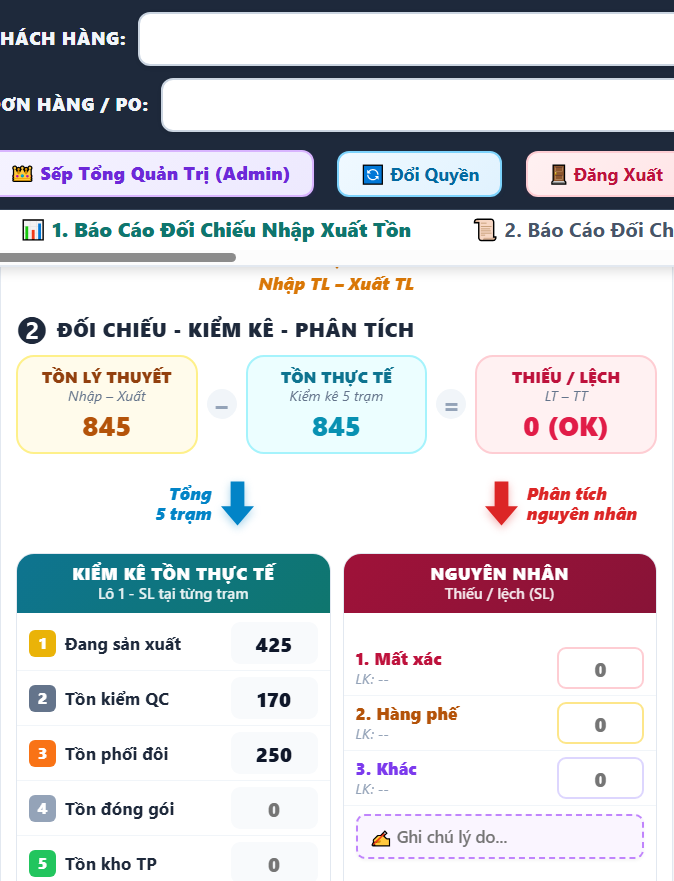
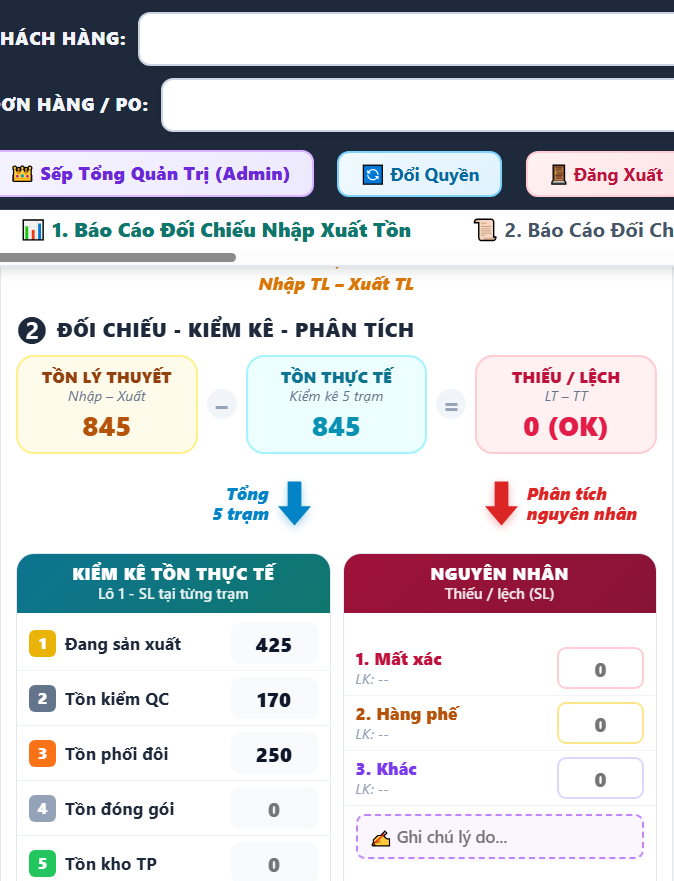
fix(ui): can chinh mui ten xanh nam dung diem ve tay trong anh moi

Changed region(s): [[0.2493, 0.521, 0.4674, 0.6129]]

diff --git a/frontend/styles.css b/frontend/styles.css
@@ -3729,7 +3729,7 @@ input[type=number] {
 
 .dual-arrow-col.left-col {
   justify-content: flex-end !important;
-  padding-right: 24% !important;
+  padding-right: 12px !important;
   gap: 6px !important;
 }
 
